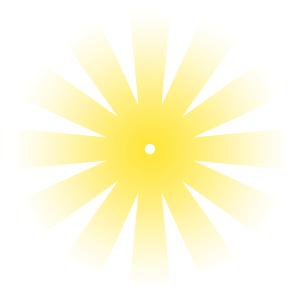
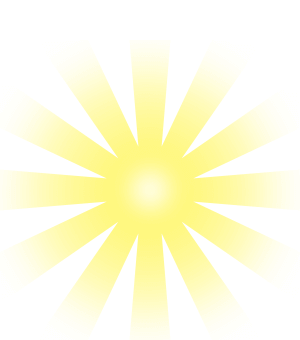
fix bugs:
1. 底部自适应
2.更换发光图片

diff --git a/NJS_PRS/src/js/cmdctool.js b/NJS_PRS/src/js/cmdctool.js
@@ -546,6 +546,6 @@ return /******/ (function(modules) { // webpackBootstrap
 /* 4 */
 /***/ function(module, exports) {
 
-		module.exports = "/*\n*\tMatterTools.Demo\n*/\n\n.cm-d-c {\ntop:0px;bottom:0px;left:0;right:0;margin:0 auto;\nposition: fixed;\nz-index:25;\nwidth: 1180px;\nheight: 100%;\n font-family: Helvetica, Arial, sans-serif;\n  display: -webkit-box;\n  display: -ms-flexbox;\n  display: flex;\n -webkit-box-align: center;\n      -ms-flex-align: center;\n          align-items: center;\n  -webkit-box-pack: center;\n      -ms-flex-pack: center;\n          justify-content: center;\n  -webkit-box-orient: vertical;\n  -webkit-box-direction: normal;\n      -ms-flex-direction: column;\n          flex-direction: column;\n  height: 100vh;\n}\n\n.cm-d-c canvas {\n  border-radius: 8px;\n  max-width: 100%;\n  max-height: 100%;\n}\n\n.cm-d-c.cm-d-c-inline canvas {\n  max-height: calc(100% - 50px);\n}\n\n@media screen and (min-width: 900px) and (min-height: 600px) {\n  .cm-d-c.cm-d-c-inline canvas {\n    max-height: calc(100% - 100px);\n  }\n}\n\n.matter-is-fullscreen .cm-d-c {\n  width: 100%;\n}\n\n.matter-is-fullscreen .dg.ac,\n.matter-is-fullscreen .ins-container {\n  display: none;\n}\n\n.start-btn {display: none;cursor:pointer;margin: auto;z-index: 9999; position: fixed;right:-15px;padding: 50px 0 0 0;text-align: center;} .cm-d-c-header-outer {\ndisplay:none;  position: fixed;\n  z-index: 100;\n  top: 0;\n  left: 0;\n  right: 0;\n  background: rgba(0, 0, 0, 0.2);\n  -webkit-box-align: center;\n      -ms-flex-align: center;\n          align-items: center;\n  -webkit-box-pack: center;\n      -ms-flex-pack: center;\n          justify-content: center;\n  -webkit-transition: background 400ms ease;\n  -o-transition: background 400ms ease;\n  transition: background 400ms ease;\n}\n\n.cm-d-c-header-outer:hover {\n  background: rgba(0, 0, 0, 0.7);\n}\n\n.cm-d-c-inline .cm-d-c-header-outer {\n  position: static;\n  background: transparent;\n  z-index: 0;\n  width: 100%;\n}\n\n.cm-d-c-header {\n  width: 100%;\n  padding: 7px 20px 8px 20px;\n  display: -webkit-box;\n  display: -ms-flexbox;\n  display: flex;\n  -webkit-box-align: center;\n      -ms-flex-align: center;\n          align-items: center;\n  -webkit-box-pack: center;\n      -ms-flex-pack: center;\n          justify-content: center;\n}\n\n.cm-d-c-inline .cm-d-c-header {\n  padding: 10px;\n}\n\nbody .ins-container,\nbody .dg .dg.main,\nbody .dg .dg.main.a {\n  padding-top: 52px;\n}\n\n@media screen and (min-width: 500px) {\n  .cm-d-c-inline .cm-d-c-header {\n    padding: 10px 30px 16px 30px;\n  }\n}\n\n@media screen and (min-width: 900px) and (min-height: 600px) {\n  .cm-d-c-inline .cm-d-c-header {\n    padding: 10px 30px 36px 30px;\n  }\n}\n\n.cm-d-c-header-inner {\n  display: -webkit-box;\n  display: -ms-flexbox;\n  display: flex;\n  -webkit-box-align: center;\n      -ms-flex-align: center;\n          align-items: center;\n  -webkit-box-pack: justify;\n      -ms-flex-pack: justify;\n          justify-content: space-between;\n  max-width: 960px;\n  width: 30%;\n}\n\n.cm-d-c-header h1 {\n  display: none;\n  margin: 0;\n  width: 18px;\n  overflow: hidden;\n}\n\n.cm-d-c-header h1 a {\n position: relative;right: 300px; color: #f2f2f5;\n  font-size: 15px;\n  font-weight: 400;\n  font-family: Helvetica, Arial, sans-serif;\n  display: block;\n  text-decoration: none;\n  padding: 8px 0 3px 0;\n  border-bottom: 2px solid transparent;\n  white-space: nowrap;\n  float: right;\n}\n\n@media screen and (min-width: 300px) {\n  .cm-d-c-header h1 {\n    display: inline;\n  }\n}\n\n@media screen and (min-width: 600px) {\n  .cm-d-c-header h1 {\n    width: auto;\n    overflow: visible;\n  }\n}\n\n.btn-home {\n  display: none;\n}\n\n.cm-d-c-title svg {\n  fill: #fff;\n  width: 16px;\n  height: 16px;\n  margin: 0px 0 -2px 4px;\n}\n\n.cm-d-c-close {left: 430px;position: relative; background: url('//act.cmcmcdn.com/upload/201710/fc2680a1c7df924e2a0e3259fecbc95b.png') no-repeat; width: 30px;height:30px;cursor: pointer;} .cm-d-c-header h1 a:hover {\n  border-bottom: 2px solid #298eff;\n}\n\n.cm-d-c-link {\n  font-family: Helvetica, Arial, sans-serif;\n  text-decoration: none;\n  line-height: 13px;\n  margin: 0 -10px 0 0;\n}\n\n.matter-logo {\n  height: 33px;\n  width: 52px;\n}\n\n.matter-logo #m-triangle {\n  -webkit-transform-origin: 14px 856px;\n      -ms-transform-origin: 14px 856px;\n          transform-origin: 14px 856px;\n  -webkit-transition: -webkit-transform 400ms ease;\n  transition: -webkit-transform 400ms ease;\n  -o-transition: transform 400ms ease;\n  transition: transform 400ms ease;\n  transition: transform 400ms ease, -webkit-transform 400ms ease;\n}\n\n.matter-logo:hover #m-triangle {\n  -webkit-transform: rotate(-30deg) translate(-98px, -25px);\n      -ms-transform: rotate(-30deg) translate(-98px, -25px);\n          transform: rotate(-30deg) translate(-98px, -25px);\n}\n\n.matter-logo #m-circle {\n  -webkit-transition: -webkit-transform 200ms ease;\n  transition: -webkit-transform 200ms ease;\n  -o-transition: transform 200ms ease;\n  transition: transform 200ms ease;\n  transition: transform 200ms ease, -webkit-transform 200ms ease;\n  -webkit-transition-delay: 300ms;\n       -o-transition-delay: 300ms;\n          transition-delay: 300ms;\n}\n\n.matter-logo #m-square {\n  -webkit-transition: -webkit-transform 150ms ease;\n  transition: -webkit-transform 150ms ease;\n  -o-transition: transform 150ms ease;\n  transition: transform 150ms ease;\n  transition: transform 150ms ease, -webkit-transform 150ms ease;\n  -webkit-transition-delay: 400ms;\n       -o-transition-delay: 400ms;\n          transition-delay: 400ms;\n}\n\n.matter-logo:hover #m-circle {\n  -webkit-transform: translate(18px, -33px);\n      -ms-transform: translate(18px, -33px);\n          transform: translate(18px, -33px);\n}\n\n.matter-logo:hover #m-square {\n  -webkit-transform: translate(47px, -2px);\n      -ms-transform: translate(47px, -2px);\n          transform: translate(47px, -2px);\n}\n\n.cm-d-c-toolbar {\n  -webkit-box-flex: 1;\n      -ms-flex-positive: 1;\n          flex-grow: 1;\n  display: -webkit-box;\n  display: -ms-flexbox;\n  display: flex;\n  -webkit-box-align: center;\n      -ms-flex-align: center;\n          align-items: center;\n  -webkit-box-pack: center;\n      -ms-flex-pack: center;\n          justify-content: center;\n}\n\n.matter-select {\n  background: transparent;\n  color: #fff;\n  font-size: 15px;\n  height: 30px;\n  width: 100%;\n  outline: none;\n  padding: 0 7px;\n  margin: 0;\n  border: 0;\n  border-radius: 0;\n  appearance: none;\n  -moz-appearance: none;\n  -webkit-appearance: none;\n}\n\n.prevent-zoom-ios .matter-select {\n  font-size: 16px;\n}\n\n.matter-select-wrapper {\n  width: 20%;\n  min-width: 100px;\n  max-width: 200px;\n  position: relative;\n  display: inline-block;\n  margin: 1px 6% 0 0;\n}\n\n.matter-select-wrapper:hover:after svg {\n  fill: #fff;\n}\n\n.matter-select-wrapper svg {\n  display: block;\n  pointer-events: none;\n  fill: #cecece;\n  width: 22px;\n  height: 22px;\n  position: absolute;\n  top: 4px;\n  right: 5px;\n}\n\n.prevent-zoom-ios .matter-select-wrapper:after {\n  top: 4px;\n}\n\n.matter-btn {\n  font-family: Helvetica, Arial, sans-serif;\n  border: 0;\n  background: rgba(0,0,0,0.1);\n  padding: 2px 0 0 0;\n  width: 40px;\n  height: 33px;\n  border-radius: 2px;\n  display: inline-block;\n  font-size: 16px;\n  line-height: 1;\n  color: #c2cad4;\n  text-decoration: none;\n  text-align: center;\n}\n\n.matter-btn svg {\n  fill: #fff;\n  width: 16px;\n  height: 16px;\n  margin: 2px 0 0 0;\n}\n\n.cm-d-c-inline .matter-btn {\n  background: #0f0f13;\n}\n\n.matter-btn:focus {\n  outline: 0;\n}\n\n.matter-btn:hover {\n  -webkit-transform: translate(0px, -1px);\n      -ms-transform: translate(0px, -1px);\n          transform: translate(0px, -1px);\n}\n\n.matter-btn:active {\n  -webkit-transform: translate(0px, 1px);\n      -ms-transform: translate(0px, 1px);\n          transform: translate(0px, 1px);\n}\n\n.matter-btn:hover {\n  background: #212a3a;\n}\n\n.matter-btn-reset:active svg {\n  fill: #76F09B;\n}\n\n.matter-btn-tools {\n  display: none;\n  font-size: 15px;\n  padding-right: 3px;\n}\n\n.matter-gui-active .matter-btn-tools svg {\n  fill: #F55F5F;\n}\n\n.matter-btn-inspect {\n  display: none;\n}\n\n.matter-inspect-active .matter-btn-inspect svg {\n  fill: #fff036;\n}\n\n.matter-btn-source {\n  display: none;\n  font-size: 12px;\n  text-align: center;\n  line-height: 31px;\n}\n\n.matter-btn-source:active {\n  color: #298eff;\n}\n\n.matter-btn-fullscreen {\n  font-size: 18px;\n}\n\n.matter-btn-source:active svg {\n  fill: #298eff;\n}\n\n.matter-is-fullscreen .matter-btn-tools,\n.matter-is-fullscreen .matter-btn-inspect {\n  display: none;\n}\n\n.matter-is-fullscreen .matter-btn-fullscreen svg {\n  fill: #76F09B;\n}\n\n.ins-container,\nbody .dg {\n  display: none;\n}\n\n@media screen and (min-width: 500px) {\n  .ins-container,\n  body .dg,\n  .matter-btn-tools,\n  .matter-btn-inspect,\n  .matter-btn-source {\n    display: block;\n  }\n}.switch {display: inline-block;margin: 0em 2em;position: relative;border-radius: 3.5em; -webkit-box-shadow: 0 0 0.5em rgba(255,255,255,0.2); -moz-box-shadow: 0 0 0.5em rgba(255,255,255,0.2);box-shadow: 0 0 0.5em rgba(255,255,255,0.2);} .switch label {cursor: pointer;width: 100%;height: 100%;margin: 0;padding: 0;display: block;position: absolute;top: 0;left: 0;z-index: 10;}.switch input {display: none;}.switch span {display: block; -webkit-transition: top 0.2s; -moz-transition: top 0.2s; -ms-transition: top 0.2s; -o-transition: top 0.2s;transition: top 0.2s;}.switch-border1 {border: 0.1em solid #000;border-radius: 3.5em; -webkit-box-shadow: 0 0.2em rgba(255, 255, 255, 0.2); -moz-box-shadow: 0 0.2em rgba(255, 255, 255, 0.2);box-shadow: 0 0.2em rgba(255, 255, 255, 0.2);}.switch-border2 {width: 6.6em;height: 12.6em;position: relative;border: 0.1em solid #323232;background-image: -webkit-gradient(linear, left top, right top, from(#2D2D2D), color-stop(0.5, #4B4B4B), to(#2D2D2D));background-image: -webkit-linear-gradient(left, #2D2D2D, #4B4B4B, #2D2D2D);background-image: -moz-linear-gradient(left, #2D2D2D, #4B4B4B, #2D2D2D);background-image: -ms-linear-gradient(left, #2D2D2D, #4B4B4B, #2D2D2D);background-image: -o-linear-gradient(left, #2D2D2D, #4B4B4B, #2D2D2D);background-image: linear-gradient(to right, #2D2D2D, #4B4B4B, #2D2D2D);border-radius: 3.4em;}.switch-border2:before,.switch-border2:after {content: '';display: block;width: 100%;height: 100%;position: absolute;top: 0;left: 0;z-index: 0;opacity: .3;border-radius: 3.4em;}.switch-border2:before {background: -webkit-gradient(linear, left top, left bottom, from(#000), to(rgba(0,0,0,0)));background: -webkit-linear-gradient(#000, rgba(0,0,0,0));background: -moz-linear-gradient(#000, rgba(0,0,0,0));background: -ms-linear-gradient(#000, rgba(0,0,0,0));background: -o-linear-gradient(#000, rgba(0,0,0,0));background: linear-gradient(#000, rgba(0,0,0,0));}.switch-border2:after {background: -webkit-gradient(linear, left top, left bottom, from(rgba(0,0,0,0)), to(#000));background: -webkit-linear-gradient(rgba(0,0,0,0), #000);background: -moz-linear-gradient(rgba(0,0,0,0), #000);background: -ms-linear-gradient(rgba(0,0,0,0), #000);background: -o-linear-gradient(rgba(0,0,0,0), #000);background: linear-gradient(rgba(0,0,0,0), #000);}.switch-top {width: 100%;height: 84%;position: absolute;top: 8%;left: 0;z-index: 1;background-image: -webkit-gradient(linear, left top, right top, from(#2D2D2D), color-stop(0.5, #4B4B4B), to(#2D2D2D));background-image: -webkit-linear-gradient(left, #2D2D2D, #4B4B4B, #2D2D2D);background-image: -moz-linear-gradient(left, #2D2D2D, #4B4B4B, #2D2D2D);background-image: -ms-linear-gradient(left, #2D2D2D, #4B4B4B, #2D2D2D);background-image: -o-linear-gradient(left, #2D2D2D, #4B4B4B, #2D2D2D);background-image: linear-gradient(to right, #2D2D2D, #4B4B4B, #2D2D2D);border-radius: 3.4em;}.switch-shadow {width: 100%;height: 100%;position: absolute;top: 0;left: 0;z-index: 2;border-radius: 3.4em; -webkit-box-shadow: 0 0 2em black inset; -moz-box-shadow: 0 0 2em black inset;box-shadow: 0 0 2em black inset;}.switch-handle-left,.switch-handle-right {content: '';display: block;width: 3.6em;height: 0;position: absolute;top: 6.6em;z-index: 2;border-bottom: 4.5em solid #111;border-left: 0.7em solid transparent;border-right: 0.7em solid transparent;border-radius: 0;}.switch-handle-left {left: 0.8em;}.switch-handle-right {right: 0.8em;}.switch-handle {width: 3.6em;height: 4.5em;position: absolute;top: 6.6em;left: 1.5em;z-index: 3;background: #333;background-image: -webkit-gradient(linear, left top, right top, from(#111), color-stop(0.4, #777), color-stop(0.5, #888), color-stop(0.6, #777), to(#111));background-image: -webkit-linear-gradient(left, #111, #777 40%, #888, #777 60%, #111);background-image: -moz-linear-gradient(left, #111, #777 40%, #888, #777 60%, #111);background-image: -ms-linear-gradient(left, #111, #777 40%, #888, #777 60%, #111);background-image: -o-linear-gradient(left, #111, #777 40%, #888, #777 60%, #111);background-image: linear-gradient(to right, #111, #777 40%, #888, #777 60%, #111);border-radius: 0;}.switch-handle-top {width: 5em;height: 5em;position: absolute;top: 8.5em;left: 0.8em;z-index: 4;background-color: #555;background-image: -webkit-gradient(linear, left top, right top, from(#5F5F5F), to(#878787));background-image: -webkit-linear-gradient(left, #5F5F5F, #878787);background-image: -moz-linear-gradient(left, #5F5F5F, #878787);background-image: -ms-linear-gradient(left, #5F5F5F, #878787);background-image: -o-linear-gradient(left, #5F5F5F, #878787);background-image: linear-gradient(to right, #5F5F5F, #878787);border-top: 0.2em solid #AEB2B3;border-radius: 2.5em;}.switch-handle-bottom {width: 3.6em;height: 3.6em;position: absolute;top: 4.7em;left: 1.5em;z-index: 3;background: #333;background-image: -webkit-gradient(linear, left top, right top, from(#111), color-stop(0.4, #777), color-stop(0.5, #888), color-stop(0.6, #777), to(#111));background-image: -webkit-linear-gradient(left, #111, #777 40%, #888, #777 60%, #111);background-image: -moz-linear-gradient(left, #111, #777 40%, #888, #777 60%, #111);background-image: -ms-linear-gradient(left, #111, #777 40%, #888, #777 60%, #111);background-image: -o-linear-gradient(left, #111, #777 40%, #888, #777 60%, #111);background-image: linear-gradient(to right, #111, #777 40%, #888, #777 60%, #111);border-top: 0.2em solid #141414;border-radius: 1.8em;}.switch-handle-base {width: 4.2em;height: 4.2em;position: absolute;top: 3.8em;left: 1.2em;z-index: 2;border-top: 0.2em solid rgba(255,255,255,0.35);border-radius: 2.1em;-webkit-box-shadow: 0 0 0.5em rgba(0,0,0,0.8) inset;-moz-box-shadow: 0 0 0.5em rgba(0,0,0,0.8) inset;box-shadow: 0 0 0.5em rgba(0,0,0,0.8) inset;}.switch-led {position: absolute;left: 2em;border-radius: 1.4em;}.switch-led-border {border: 0.2em solid black;border-radius: 1.3em;}.switch-led-light {border-radius: 1.1em; -webkit-box-shadow: 0 0 0.5em rgba(255,255,255,0.5) inset; -moz-box-shadow: 0 0 0.5em rgba(255,255,255,0.5) inset;box-shadow: 0 0 0.5em rgba(255,255,255,0.5) inset;}.switch-led-glow {width: 2em;height: 2em;position: relative;border-radius: 1em;}.switch-led-glow:before {content: '';display: block;width: 0.6em;height: 0.6em;position: absolute;top: 0.3em;left: 0.7em;background: rgba(255,255,255,0.2);border-radius: 0.3em; -webkit-box-shadow: 0 0 1em rgba(255,255,255,0.75); -moz-box-shadow: 0 0 1em rgba(255,255,255,0.75);box-shadow: 0 0 1em rgba(255,255,255,0.75);}.switch-led-glow:after {content: '';display: block;width: 0;height: 0;position: absolute;top: 0;left: 0;opacity: 0.2;filter: alpha(opacity=20);border: 1em solid #fff;border-color: transparent #fff transparent #fff;border-radius: 1em; -webkit-transform: rotate(45deg); -moz-transform: rotate(45deg); -ms-transform: rotate(45deg); -o-transform: rotate(45deg);transform: rotate(45deg);}.switch-led:after {display: block;width: 100%;position: absolute;left: 0;color: #666;font-family: arial, verdana, sans-serif;font-weight: bold;text-align: center;text-shadow: 0 0.1em rgba(0,0,0,0.7);}.switch-led-green:after {content: 'UP';top: -1.8em;}.switch-led-red:after {content: 'DOWN';bottom: -1.8em;}.switch-led-green {top: -5em;border-top: 0.1em solid rgba(0,161,75,0.5);border-bottom: 0.1em solid rgba(255,255,255,0.25);}.switch-led-green .switch-led-light {background: rgb(0,161,75);border: 0.1em solid rgb(0,104,56);}.switch-led-red {bottom: -5em;border-top: 0.1em solid rgba(237,28,36,0.2);border-bottom: 0.1em solid rgba(255,255,255,0.25); -webkit-box-shadow: 0 0 3em rgb(237,28,36); -moz-box-shadow: 0 0 3em rgb(237,28,36);box-shadow: 0 0 3em rgb(237,28,36);}.switch-led-red .switch-led-light {background: rgb(237,28,36);border: 0.1em solid rgb(161,30,45);}.switch-led-red .switch-led-glow {background: #fff;background: rgba(255, 255, 255, 0.3);filter: alpha(opacity=30);}.switch input:checked~.switch-handle-left, .switch input:checked~.switch-handle-right {top: 1.5em;border-bottom: 0; -top: 4.5em solid #111;}.switch input:checked~.switch-handle {top: 1.5em;}.switch input:checked~.switch-handle-top  {top: -1em;border-top: 0;border-bottom: 0.2em solid #AEB2B3;}.switch input:checked~.switch-handle-bottom {top: 4.2em;border-top: 0;border-bottom: 0.2em solid #141414;}.switch input:checked~.switch-handle-base {top: 4.5em;border-top: 0;border-bottom: 0.2em solid rgba(255,255,255,0.35);}.switch input:checked~.switch-led-green { -webkit-box-shadow: 0 0 3em rgb(0,161,75); -moz-box-shadow: 0 0 3em rgb(0,161,75);box-shadow: 0 0 3em rgb(0,161,75);}.switch input:checked~.switch-led-green .switch-led-glow {background: #fff;background: rgba(255, 255, 255, 0.4);filter: alpha(opacity=40);}.switch input:checked~.switch-led-red { -webkit-box-shadow: none; -moz-box-shadow: none;box-shadow: none;}.switch input:checked~.switch-led-red .switch-led-glow {background: rgba(255, 255, 255, 0);filter: alpha(opacity=0);}"}])
+		module.exports = "/*\n*\tMatterTools.Demo\n*/\n\n.cm-d-c {\ntop:0px;bottom:0px;left:0;right:0;margin:0 auto;\nposition: fixed;\nz-index:25;\nwidth: 1180px;\nheight: 100%;\n font-family: Helvetica, Arial, sans-serif;\n  display: -webkit-box;\n  display: -ms-flexbox;\n  display: flex;\n -webkit-box-align: center;\n      -ms-flex-align: center;\n          align-items: center;\n  -webkit-box-pack: center;\n      -ms-flex-pack: center;\n          justify-content: center;\n  -webkit-box-orient: vertical;\n  -webkit-box-direction: normal;\n      -ms-flex-direction: column;\n          flex-direction: column;\n  height: 100vh;cursor:url('https://www.duba.com/static/v2/images/point.cur'),auto\n}\n\n.cm-d-c canvas {\n  border-radius: 8px;\n  max-width: 100%;\n  max-height: 100%;\n}\n\n.cm-d-c.cm-d-c-inline canvas {\n  max-height: calc(100% - 50px);\n}\n\n@media screen and (min-width: 900px) and (min-height: 600px) {\n  .cm-d-c.cm-d-c-inline canvas {\n    max-height: calc(100% - 100px);\n  }\n}\n\n.matter-is-fullscreen .cm-d-c {\n  width: 100%;\n}\n\n.matter-is-fullscreen .dg.ac,\n.matter-is-fullscreen .ins-container {\n  display: none;\n}\n\n.start-btn {display: none;cursor:pointer;margin: auto;z-index: 9999; position: fixed;right:-15px;padding: 50px 0 0 0;text-align: center;} .cm-d-c-header-outer {\ndisplay:none;  position: fixed;\n  z-index: 100;\n  top: 0;\n  left: 0;\n  right: 0;\n  background: rgba(0, 0, 0, 0.2);\n  -webkit-box-align: center;\n      -ms-flex-align: center;\n          align-items: center;\n  -webkit-box-pack: center;\n      -ms-flex-pack: center;\n          justify-content: center;\n  -webkit-transition: background 400ms ease;\n  -o-transition: background 400ms ease;\n  transition: background 400ms ease;\n}\n\n.cm-d-c-header-outer:hover {\n  background: rgba(0, 0, 0, 0.7);\n}\n\n.cm-d-c-inline .cm-d-c-header-outer {\n  position: static;\n  background: transparent;\n  z-index: 0;\n  width: 100%;\n}\n\n.cm-d-c-header {\n  width: 100%;\n  padding: 7px 20px 8px 20px;\n  display: -webkit-box;\n  display: -ms-flexbox;\n  display: flex;\n  -webkit-box-align: center;\n      -ms-flex-align: center;\n          align-items: center;\n  -webkit-box-pack: center;\n      -ms-flex-pack: center;\n          justify-content: center;\n}\n\n.cm-d-c-inline .cm-d-c-header {\n  padding: 10px;\n}\n\nbody .ins-container,\nbody .dg .dg.main,\nbody .dg .dg.main.a {\n  padding-top: 52px;\n}\n\n@media screen and (min-width: 500px) {\n  .cm-d-c-inline .cm-d-c-header {\n    padding: 10px 30px 16px 30px;\n  }\n}\n\n@media screen and (min-width: 900px) and (min-height: 600px) {\n  .cm-d-c-inline .cm-d-c-header {\n    padding: 10px 30px 36px 30px;\n  }\n}\n\n.cm-d-c-header-inner {\n  display: -webkit-box;\n  display: -ms-flexbox;\n  display: flex;\n  -webkit-box-align: center;\n      -ms-flex-align: center;\n          align-items: center;\n  -webkit-box-pack: justify;\n      -ms-flex-pack: justify;\n          justify-content: space-between;\n  max-width: 960px;\n  width: 30%;\n}\n\n.cm-d-c-header h1 {\n  display: none;\n  margin: 0;\n  width: 18px;\n  overflow: hidden;\n}\n\n.cm-d-c-header h1 a {\n position: relative;right: 300px; color: #f2f2f5;\n  font-size: 15px;\n  font-weight: 400;\n  font-family: Helvetica, Arial, sans-serif;\n  display: block;\n  text-decoration: none;\n  padding: 8px 0 3px 0;\n  border-bottom: 2px solid transparent;\n  white-space: nowrap;\n  float: right;\n}\n\n@media screen and (min-width: 300px) {\n  .cm-d-c-header h1 {\n    display: inline;\n  }\n}\n\n@media screen and (min-width: 600px) {\n  .cm-d-c-header h1 {\n    width: auto;\n    overflow: visible;\n  }\n}\n\n.btn-home {\n  display: none;\n}\n\n.cm-d-c-title svg {\n  fill: #fff;\n  width: 16px;\n  height: 16px;\n  margin: 0px 0 -2px 4px;\n}\n\n.cm-d-c-close {left: 430px;position: relative; background: url('//act.cmcmcdn.com/upload/201710/fc2680a1c7df924e2a0e3259fecbc95b.png') no-repeat; width: 30px;height:30px;cursor: pointer;} .cm-d-c-header h1 a:hover {\n  border-bottom: 2px solid #298eff;\n}\n\n.cm-d-c-link {\n  font-family: Helvetica, Arial, sans-serif;\n  text-decoration: none;\n  line-height: 13px;\n  margin: 0 -10px 0 0;\n}\n\n.matter-logo {\n  height: 33px;\n  width: 52px;\n}\n\n.matter-logo #m-triangle {\n  -webkit-transform-origin: 14px 856px;\n      -ms-transform-origin: 14px 856px;\n          transform-origin: 14px 856px;\n  -webkit-transition: -webkit-transform 400ms ease;\n  transition: -webkit-transform 400ms ease;\n  -o-transition: transform 400ms ease;\n  transition: transform 400ms ease;\n  transition: transform 400ms ease, -webkit-transform 400ms ease;\n}\n\n.matter-logo:hover #m-triangle {\n  -webkit-transform: rotate(-30deg) translate(-98px, -25px);\n      -ms-transform: rotate(-30deg) translate(-98px, -25px);\n          transform: rotate(-30deg) translate(-98px, -25px);\n}\n\n.matter-logo #m-circle {\n  -webkit-transition: -webkit-transform 200ms ease;\n  transition: -webkit-transform 200ms ease;\n  -o-transition: transform 200ms ease;\n  transition: transform 200ms ease;\n  transition: transform 200ms ease, -webkit-transform 200ms ease;\n  -webkit-transition-delay: 300ms;\n       -o-transition-delay: 300ms;\n          transition-delay: 300ms;\n}\n\n.matter-logo #m-square {\n  -webkit-transition: -webkit-transform 150ms ease;\n  transition: -webkit-transform 150ms ease;\n  -o-transition: transform 150ms ease;\n  transition: transform 150ms ease;\n  transition: transform 150ms ease, -webkit-transform 150ms ease;\n  -webkit-transition-delay: 400ms;\n       -o-transition-delay: 400ms;\n          transition-delay: 400ms;\n}\n\n.matter-logo:hover #m-circle {\n  -webkit-transform: translate(18px, -33px);\n      -ms-transform: translate(18px, -33px);\n          transform: translate(18px, -33px);\n}\n\n.matter-logo:hover #m-square {\n  -webkit-transform: translate(47px, -2px);\n      -ms-transform: translate(47px, -2px);\n          transform: translate(47px, -2px);\n}\n\n.cm-d-c-toolbar {\n  -webkit-box-flex: 1;\n      -ms-flex-positive: 1;\n          flex-grow: 1;\n  display: -webkit-box;\n  display: -ms-flexbox;\n  display: flex;\n  -webkit-box-align: center;\n      -ms-flex-align: center;\n          align-items: center;\n  -webkit-box-pack: center;\n      -ms-flex-pack: center;\n          justify-content: center;\n}\n\n.matter-select {\n  background: transparent;\n  color: #fff;\n  font-size: 15px;\n  height: 30px;\n  width: 100%;\n  outline: none;\n  padding: 0 7px;\n  margin: 0;\n  border: 0;\n  border-radius: 0;\n  appearance: none;\n  -moz-appearance: none;\n  -webkit-appearance: none;\n}\n\n.prevent-zoom-ios .matter-select {\n  font-size: 16px;\n}\n\n.matter-select-wrapper {\n  width: 20%;\n  min-width: 100px;\n  max-width: 200px;\n  position: relative;\n  display: inline-block;\n  margin: 1px 6% 0 0;\n}\n\n.matter-select-wrapper:hover:after svg {\n  fill: #fff;\n}\n\n.matter-select-wrapper svg {\n  display: block;\n  pointer-events: none;\n  fill: #cecece;\n  width: 22px;\n  height: 22px;\n  position: absolute;\n  top: 4px;\n  right: 5px;\n}\n\n.prevent-zoom-ios .matter-select-wrapper:after {\n  top: 4px;\n}\n\n.matter-btn {\n  font-family: Helvetica, Arial, sans-serif;\n  border: 0;\n  background: rgba(0,0,0,0.1);\n  padding: 2px 0 0 0;\n  width: 40px;\n  height: 33px;\n  border-radius: 2px;\n  display: inline-block;\n  font-size: 16px;\n  line-height: 1;\n  color: #c2cad4;\n  text-decoration: none;\n  text-align: center;\n}\n\n.matter-btn svg {\n  fill: #fff;\n  width: 16px;\n  height: 16px;\n  margin: 2px 0 0 0;\n}\n\n.cm-d-c-inline .matter-btn {\n  background: #0f0f13;\n}\n\n.matter-btn:focus {\n  outline: 0;\n}\n\n.matter-btn:hover {\n  -webkit-transform: translate(0px, -1px);\n      -ms-transform: translate(0px, -1px);\n          transform: translate(0px, -1px);\n}\n\n.matter-btn:active {\n  -webkit-transform: translate(0px, 1px);\n      -ms-transform: translate(0px, 1px);\n          transform: translate(0px, 1px);\n}\n\n.matter-btn:hover {\n  background: #212a3a;\n}\n\n.matter-btn-reset:active svg {\n  fill: #76F09B;\n}\n\n.matter-btn-tools {\n  display: none;\n  font-size: 15px;\n  padding-right: 3px;\n}\n\n.matter-gui-active .matter-btn-tools svg {\n  fill: #F55F5F;\n}\n\n.matter-btn-inspect {\n  display: none;\n}\n\n.matter-inspect-active .matter-btn-inspect svg {\n  fill: #fff036;\n}\n\n.matter-btn-source {\n  display: none;\n  font-size: 12px;\n  text-align: center;\n  line-height: 31px;\n}\n\n.matter-btn-source:active {\n  color: #298eff;\n}\n\n.matter-btn-fullscreen {\n  font-size: 18px;\n}\n\n.matter-btn-source:active svg {\n  fill: #298eff;\n}\n\n.matter-is-fullscreen .matter-btn-tools,\n.matter-is-fullscreen .matter-btn-inspect {\n  display: none;\n}\n\n.matter-is-fullscreen .matter-btn-fullscreen svg {\n  fill: #76F09B;\n}\n\n.ins-container,\nbody .dg {\n  display: none;\n}\n\n@media screen and (min-width: 500px) {\n  .ins-container,\n  body .dg,\n  .matter-btn-tools,\n  .matter-btn-inspect,\n  .matter-btn-source {\n    display: block;\n  }\n}.switch {display: inline-block;margin: 0em 2em;position: relative;border-radius: 3.5em; -webkit-box-shadow: 0 0 0.5em rgba(255,255,255,0.2); -moz-box-shadow: 0 0 0.5em rgba(255,255,255,0.2);box-shadow: 0 0 0.5em rgba(255,255,255,0.2);} .switch label {cursor: pointer;width: 100%;height: 100%;margin: 0;padding: 0;display: block;position: absolute;top: 0;left: 0;z-index: 10;}.switch input {display: none;}.switch span {display: block; -webkit-transition: top 0.2s; -moz-transition: top 0.2s; -ms-transition: top 0.2s; -o-transition: top 0.2s;transition: top 0.2s;}.switch-border1 {border: 0.1em solid #000;border-radius: 3.5em; -webkit-box-shadow: 0 0.2em rgba(255, 255, 255, 0.2); -moz-box-shadow: 0 0.2em rgba(255, 255, 255, 0.2);box-shadow: 0 0.2em rgba(255, 255, 255, 0.2);}.switch-border2 {width: 6.6em;height: 12.6em;position: relative;border: 0.1em solid #323232;background-image: -webkit-gradient(linear, left top, right top, from(#2D2D2D), color-stop(0.5, #4B4B4B), to(#2D2D2D));background-image: -webkit-linear-gradient(left, #2D2D2D, #4B4B4B, #2D2D2D);background-image: -moz-linear-gradient(left, #2D2D2D, #4B4B4B, #2D2D2D);background-image: -ms-linear-gradient(left, #2D2D2D, #4B4B4B, #2D2D2D);background-image: -o-linear-gradient(left, #2D2D2D, #4B4B4B, #2D2D2D);background-image: linear-gradient(to right, #2D2D2D, #4B4B4B, #2D2D2D);border-radius: 3.4em;}.switch-border2:before,.switch-border2:after {content: '';display: block;width: 100%;height: 100%;position: absolute;top: 0;left: 0;z-index: 0;opacity: .3;border-radius: 3.4em;}.switch-border2:before {background: -webkit-gradient(linear, left top, left bottom, from(#000), to(rgba(0,0,0,0)));background: -webkit-linear-gradient(#000, rgba(0,0,0,0));background: -moz-linear-gradient(#000, rgba(0,0,0,0));background: -ms-linear-gradient(#000, rgba(0,0,0,0));background: -o-linear-gradient(#000, rgba(0,0,0,0));background: linear-gradient(#000, rgba(0,0,0,0));}.switch-border2:after {background: -webkit-gradient(linear, left top, left bottom, from(rgba(0,0,0,0)), to(#000));background: -webkit-linear-gradient(rgba(0,0,0,0), #000);background: -moz-linear-gradient(rgba(0,0,0,0), #000);background: -ms-linear-gradient(rgba(0,0,0,0), #000);background: -o-linear-gradient(rgba(0,0,0,0), #000);background: linear-gradient(rgba(0,0,0,0), #000);}.switch-top {width: 100%;height: 84%;position: absolute;top: 8%;left: 0;z-index: 1;background-image: -webkit-gradient(linear, left top, right top, from(#2D2D2D), color-stop(0.5, #4B4B4B), to(#2D2D2D));background-image: -webkit-linear-gradient(left, #2D2D2D, #4B4B4B, #2D2D2D);background-image: -moz-linear-gradient(left, #2D2D2D, #4B4B4B, #2D2D2D);background-image: -ms-linear-gradient(left, #2D2D2D, #4B4B4B, #2D2D2D);background-image: -o-linear-gradient(left, #2D2D2D, #4B4B4B, #2D2D2D);background-image: linear-gradient(to right, #2D2D2D, #4B4B4B, #2D2D2D);border-radius: 3.4em;}.switch-shadow {width: 100%;height: 100%;position: absolute;top: 0;left: 0;z-index: 2;border-radius: 3.4em; -webkit-box-shadow: 0 0 2em black inset; -moz-box-shadow: 0 0 2em black inset;box-shadow: 0 0 2em black inset;}.switch-handle-left,.switch-handle-right {content: '';display: block;width: 3.6em;height: 0;position: absolute;top: 6.6em;z-index: 2;border-bottom: 4.5em solid #111;border-left: 0.7em solid transparent;border-right: 0.7em solid transparent;border-radius: 0;}.switch-handle-left {left: 0.8em;}.switch-handle-right {right: 0.8em;}.switch-handle {width: 3.6em;height: 4.5em;position: absolute;top: 6.6em;left: 1.5em;z-index: 3;background: #333;background-image: -webkit-gradient(linear, left top, right top, from(#111), color-stop(0.4, #777), color-stop(0.5, #888), color-stop(0.6, #777), to(#111));background-image: -webkit-linear-gradient(left, #111, #777 40%, #888, #777 60%, #111);background-image: -moz-linear-gradient(left, #111, #777 40%, #888, #777 60%, #111);background-image: -ms-linear-gradient(left, #111, #777 40%, #888, #777 60%, #111);background-image: -o-linear-gradient(left, #111, #777 40%, #888, #777 60%, #111);background-image: linear-gradient(to right, #111, #777 40%, #888, #777 60%, #111);border-radius: 0;}.switch-handle-top {width: 5em;height: 5em;position: absolute;top: 8.5em;left: 0.8em;z-index: 4;background-color: #555;background-image: -webkit-gradient(linear, left top, right top, from(#5F5F5F), to(#878787));background-image: -webkit-linear-gradient(left, #5F5F5F, #878787);background-image: -moz-linear-gradient(left, #5F5F5F, #878787);background-image: -ms-linear-gradient(left, #5F5F5F, #878787);background-image: -o-linear-gradient(left, #5F5F5F, #878787);background-image: linear-gradient(to right, #5F5F5F, #878787);border-top: 0.2em solid #AEB2B3;border-radius: 2.5em;}.switch-handle-bottom {width: 3.6em;height: 3.6em;position: absolute;top: 4.7em;left: 1.5em;z-index: 3;background: #333;background-image: -webkit-gradient(linear, left top, right top, from(#111), color-stop(0.4, #777), color-stop(0.5, #888), color-stop(0.6, #777), to(#111));background-image: -webkit-linear-gradient(left, #111, #777 40%, #888, #777 60%, #111);background-image: -moz-linear-gradient(left, #111, #777 40%, #888, #777 60%, #111);background-image: -ms-linear-gradient(left, #111, #777 40%, #888, #777 60%, #111);background-image: -o-linear-gradient(left, #111, #777 40%, #888, #777 60%, #111);background-image: linear-gradient(to right, #111, #777 40%, #888, #777 60%, #111);border-top: 0.2em solid #141414;border-radius: 1.8em;}.switch-handle-base {width: 4.2em;height: 4.2em;position: absolute;top: 3.8em;left: 1.2em;z-index: 2;border-top: 0.2em solid rgba(255,255,255,0.35);border-radius: 2.1em;-webkit-box-shadow: 0 0 0.5em rgba(0,0,0,0.8) inset;-moz-box-shadow: 0 0 0.5em rgba(0,0,0,0.8) inset;box-shadow: 0 0 0.5em rgba(0,0,0,0.8) inset;}.switch-led {position: absolute;left: 2em;border-radius: 1.4em;}.switch-led-border {border: 0.2em solid black;border-radius: 1.3em;}.switch-led-light {border-radius: 1.1em; -webkit-box-shadow: 0 0 0.5em rgba(255,255,255,0.5) inset; -moz-box-shadow: 0 0 0.5em rgba(255,255,255,0.5) inset;box-shadow: 0 0 0.5em rgba(255,255,255,0.5) inset;}.switch-led-glow {width: 2em;height: 2em;position: relative;border-radius: 1em;}.switch-led-glow:before {content: '';display: block;width: 0.6em;height: 0.6em;position: absolute;top: 0.3em;left: 0.7em;background: rgba(255,255,255,0.2);border-radius: 0.3em; -webkit-box-shadow: 0 0 1em rgba(255,255,255,0.75); -moz-box-shadow: 0 0 1em rgba(255,255,255,0.75);box-shadow: 0 0 1em rgba(255,255,255,0.75);}.switch-led-glow:after {content: '';display: block;width: 0;height: 0;position: absolute;top: 0;left: 0;opacity: 0.2;filter: alpha(opacity=20);border: 1em solid #fff;border-color: transparent #fff transparent #fff;border-radius: 1em; -webkit-transform: rotate(45deg); -moz-transform: rotate(45deg); -ms-transform: rotate(45deg); -o-transform: rotate(45deg);transform: rotate(45deg);}.switch-led:after {display: block;width: 100%;position: absolute;left: 0;color: #666;font-family: arial, verdana, sans-serif;font-weight: bold;text-align: center;text-shadow: 0 0.1em rgba(0,0,0,0.7);}.switch-led-green:after {content: 'UP';top: -1.8em;}.switch-led-red:after {content: 'DOWN';bottom: -1.8em;}.switch-led-green {top: -5em;border-top: 0.1em solid rgba(0,161,75,0.5);border-bottom: 0.1em solid rgba(255,255,255,0.25);}.switch-led-green .switch-led-light {background: rgb(0,161,75);border: 0.1em solid rgb(0,104,56);}.switch-led-red {bottom: -5em;border-top: 0.1em solid rgba(237,28,36,0.2);border-bottom: 0.1em solid rgba(255,255,255,0.25); -webkit-box-shadow: 0 0 3em rgb(237,28,36); -moz-box-shadow: 0 0 3em rgb(237,28,36);box-shadow: 0 0 3em rgb(237,28,36);}.switch-led-red .switch-led-light {background: rgb(237,28,36);border: 0.1em solid rgb(161,30,45);}.switch-led-red .switch-led-glow {background: #fff;background: rgba(255, 255, 255, 0.3);filter: alpha(opacity=30);}.switch input:checked~.switch-handle-left, .switch input:checked~.switch-handle-right {top: 1.5em;border-bottom: 0; -top: 4.5em solid #111;}.switch input:checked~.switch-handle {top: 1.5em;}.switch input:checked~.switch-handle-top  {top: -1em;border-top: 0;border-bottom: 0.2em solid #AEB2B3;}.switch input:checked~.switch-handle-bottom {top: 4.2em;border-top: 0;border-bottom: 0.2em solid #141414;}.switch input:checked~.switch-handle-base {top: 4.5em;border-top: 0;border-bottom: 0.2em solid rgba(255,255,255,0.35);}.switch input:checked~.switch-led-green { -webkit-box-shadow: 0 0 3em rgb(0,161,75); -moz-box-shadow: 0 0 3em rgb(0,161,75);box-shadow: 0 0 3em rgb(0,161,75);}.switch input:checked~.switch-led-green .switch-led-glow {background: #fff;background: rgba(255, 255, 255, 0.4);filter: alpha(opacity=40);}.switch input:checked~.switch-led-red { -webkit-box-shadow: none; -moz-box-shadow: none;box-shadow: none;}.switch input:checked~.switch-led-red .switch-led-glow {background: rgba(255, 255, 255, 0);filter: alpha(opacity=0);}"}])
 });
 ;

diff --git a/NJS_PRS/src/js/cmdci.js b/NJS_PRS/src/js/cmdci.js
@@ -1,10 +1,11 @@
 
 (function() {
 	var CMDC = {
-		sourceLinkRoot: '//localhost:8000/NJS_PRS/src/',
-		// sourceLinkRoot: '//10.20.240.179:8000/NJS_PRS/src/',
+		// sourceLinkRoot: '//localhost:8000/NJS_PRS/src/',
+		sourceLinkRoot: '//10.20.240.179:8000/NJS_PRS/src/',
 		//sourceLinkRoot: '//10.20.240.179:8000/NJS_PRS/output/',
 		// sourceLinkRoot: '//act.cmcmcdn.com/dollcatching/NJS_PRS/output/',
+		tmallLink: '',
 		dc: {},
 		playAgain : false,
 		timeout : 1000,
@@ -27,23 +28,18 @@
 				mainScript = document.createElement("script"),
 				alertScript = document.createElement("script"),
 				alertCss = document.createElement("link"),
-				tipScript = document.createElement("script"),
 				tipCss = document.createElement("link"),
 				sourceLinkRoot = CMDC.sourceLinkRoot;
 
 			pfScript.src = sourceLinkRoot + "js/polyfill.js";
 			mScript.src = sourceLinkRoot + "js/matter.js";
 			mgScript.src = sourceLinkRoot + "js/matter-tools.gui.js";
-			mdScript.src = sourceLinkRoot + "js/matter-tools.demo.js";
+			mdScript.src = sourceLinkRoot + "js/cmdctool.js";
 			mainScript.src = sourceLinkRoot + "js/cmdcg.js";
 			alertScript.src = sourceLinkRoot + "js/alert.js";
-			tipScript.src = sourceLinkRoot + "js/tipso.min.js";
 			alertCss.href = sourceLinkRoot + "css/alert.css";
-			tipCss.href = sourceLinkRoot + "css/tipso.min.css";
 			alertCss.rel = 'stylesheet';
 			alertCss.type = 'text/css';
-			tipCss.rel = 'stylesheet';
-			tipCss.type = 'text/css';
 
 			oHead.appendChild(alertCss);
 			oHead.appendChild(tipCss);
@@ -54,7 +50,6 @@
 				oHead.appendChild(mdScript);
 				oHead.appendChild(mainScript);
 				oHead.appendChild(alertScript);
-				oHead.appendChild(tipScript);
 			}, 500)
 		},
 		removejscssfile : function(filename, filetype){
@@ -157,7 +152,7 @@
 		play: function(){
 			var obj = {
 				tools: {
-					gui: true
+					gui: false
 				},
 				startExample: 'cmdcg',
 				examples: [
@@ -201,7 +196,7 @@
 				createDom: function(resource){
 					var cssStr = '@-webkit-keyframes move_upper {from {opacity: 0;}to {opacity: 1; -webkit-transform: translateY(-60px);transform: translateY(-60px);}} @keyframes move_upper {from {opacity: 0;}to {opacity: 1; -webkit-transform: translateY(-60px);transform: translateY(-60px); }}' +
 						'.move_upper { -webkit-animation-name: move_upper;animation-name: move_upper; -webkit-animation-duration: .7s;animation-duration: .7s; -webkit-animation-iteration-count: 1;animation-iteration-count: 1; -webkit-animation-fill-mode: forwards;animation-fill-mode: forwards;}' +
-						'.cm-dc-bottom {max-width: 1220px;position:fixed;margin: auto;left: 0;right: 0;bottom: -10px;min-width:1180px;z-index:28;height:240px;line-height:35px;background-repeat: no-repeat;background-position: center top;display:none;} ' +
+						'.cm-dc-bottom {min-width:1180px;position:fixed;margin: auto;left: 0;right: 0;bottom: -10px;z-index:28;height:240px;background-repeat: no-repeat;background-position: center top;display:none;} ' +
 						'.cm-dc-left {z-index:99;position:fixed;bottom:0;right: 50%;top:0;margin-right: 700px;width: 18%;height: 100%;background: #ec2040;}' +
 						'.cm-dc-right {z-index:2;position:fixed;bottom:0;left: 50%;top:0;margin-left: 700px;width: 18%;height: 100%;background: #ec2040;}' +
 						'.cm-dc-middle {z-index:21;position:fixed;margin:auto;top: 0;left: 0;right: 0;bottom: 0;min-width:1180px;background-repeat: no-repeat;background-position: center top;display: none}' +
@@ -209,8 +204,8 @@
 						'.cm-dc-close {width: 80px;height: 80px;cursor: pointer;top: 20px; margin: auto;z-index:23;position: fixed; right:28px;background-repeat: no-repeat;} .cm-dc-close:hover {background-position: -80px} .cm-dc-close:active {background-position: -160px}' +
 						'.cm-dc-11logo-left {margin-left: 140px;display: inline-block;width: 200px; height: 100%;background-image: url(../images/11logo.png);}' +
 						'.cm-dc-11logo-right {display: inline-block;width: 200px; height: 100%;background-image: url(../images/11logo.png);}' +
-						'.cm-dc-rocker {float:left;bottom:15px;position: relative;left: 100px;width: 160px;height: 270px;background-repeat: no-repeat;}' +
-						'.cm-dc-start-btn {top:105px;cursor:pointer;position: relative;left:400px;width:408px;height: 130px;background-repeat: no-repeat;} .cm-dc-start-btn:hover {background-position: -406px} .cm-dc-start-btn:active {background-position: -810px} ';
+						'.cm-dc-rocker {position:fixed;margin:auto;left:0;right:830px;bottom:-20px;z-index:30;width:160px;height: 270px;background-repeat: no-repeat;}' +
+						'.cm-dc-start-btn {cursor:pointer;position:fixed;margin:auto;left:0;right:0;bottom: 0px;z-index:30;width:408px;height: 130px;background-repeat: no-repeat;} .cm-dc-start-btn:hover {background-position: -406px} .cm-dc-start-btn:active {background-position: -810px} ';
 					var cssStyle = {};
 					cssStyle = document.createElement('style');
 					cssStyle.type = 'text/css';
@@ -257,14 +252,15 @@
 
 					left.appendChild(leftlogo);
 					right.appendChild(rightlogo);
-					bot.appendChild(rocker);
-					bot.appendChild(start);
+					cmdc.appendChild(rocker);
 					cmdc.appendChild(bot);
 					cmdc.appendChild(left);
 					cmdc.appendChild(right);
 					cmdc.appendChild(middle);
 					cmdc.appendChild(close);
 					cmdc.appendChild(bottombak);
+					cmdc.appendChild(bottombak);
+					cmdc.appendChild(start);
 					document.body.appendChild(cmdc);
 				},
 				show: function(){
@@ -306,8 +302,8 @@
 	setTimeout(function(){
 
 		// Catcher.report({node:1031100, snode:1163, w:"dcgame", cid:""})
-
 		CMDC.play();
+
 	}, CMDC.timeout);
 
 })();

diff --git a/NJS_PRS/src/js/cmdcg.js b/NJS_PRS/src/js/cmdcg.js
@@ -45,8 +45,8 @@ CMDCG.do = function() {
 			render: {
 				visible: false,
 				sprite: {
-					// xScale: scaleVal,
-					// yScale: scaleVal,
+					xScale: 1.3,
+					yScale: 1.3,
 					texture: sourceLinkRoot + 'img/flash.png'
 				}
 			},
@@ -259,8 +259,7 @@ CMDCG.do = function() {
 					mass: massVal,
 					angle: -Math.PI * Common.random(0, 1),
 				});
-			}
-			else if(Common.random() > 0.3 && Common.random() < 0.5){
+			} else if(Common.random() > 0.3 && Common.random() < 0.6){
 				return Bodies.rectangle(x+Common.random()*25, y+Common.random(), 36, 46, {
 					render: {
 						sprite: {
@@ -275,22 +274,7 @@ CMDCG.do = function() {
 					mass: massVal,
 					angle: -Math.PI * Common.random(0, 1)
 				});
-			} else if(Common.random() > 0.5 && Common.random() < 0.55){
-				return Bodies.rectangle(x+Common.random()*25, y+Common.random(), 30, 40, {
-					render: {
-						sprite: {
-							xScale: scaleoffest,
-							yScale: scaleoffest,
-							texture: sourceLinkRoot + 'img/rgift.png'
-						}
-					},
-					chamfer: { radius: radiusVal },
-					// friction: 0.7,
-					timeScale: timeScaleVal,
-					mass: massVal,
-					angle: -Math.PI * Common.random(0, 1)
-				});
-			} else if(Common.random() > 0.55 && Common.random() < 0.6){
+			} else if(Common.random() > 0.6 && Common.random() < 0.65){
 				return Bodies.rectangle(x+Common.random()*25, y+Common.random()*15, 30, 40, {
 					render: {
 						sprite: {
@@ -350,7 +334,7 @@ CMDCG.do = function() {
 					mass: massVal,
 					angle: -Math.PI * Common.random(0, 1)
 				});
-			} else if(Common.random() > 0.8 && Common.random() < 0.9){
+			} else if(Common.random() > 0.8 && Common.random() < 0.85){
 				return Bodies.rectangle(x+Common.random()*25, y+Common.random()*3, 30, 44, {
 					render: {
 						sprite: {
@@ -365,7 +349,7 @@ CMDCG.do = function() {
 					mass: massVal,
 					angle: -Math.PI * Common.random(0, 1)
 				});
-			} else if(Common.random() > 0.9 && Common.random() < 0.95){
+			} else if(Common.random() > 0.85 && Common.random() < 0.9){
 				return Bodies.rectangle(x+Common.random()*25, y+Common.random()*44, 30, 44, {
 					render: {
 						sprite: {
@@ -386,7 +370,7 @@ CMDCG.do = function() {
 						sprite: {
 							xScale: scaleoffest,
 							yScale: scaleoffest,
-							texture: sourceLinkRoot + '/img/gbag.png'
+							texture: sourceLinkRoot + '/img/rred.png'
 						}
 					},
 					chamfer: { radius: radiusVal },
@@ -463,9 +447,6 @@ CMDCG.do = function() {
 	//设置运行范围 围墙
 	$('#cm-d-c').css('min-width', 1180)
 	World.add(world, [
-		// bottomWall,
-		// leftWall,
-		// rightWall
 		//3-厚度 4-高度
 		// Bodies.rectangle(400, 50, 800.5 + 2 * offset, 10.5, options), //上
 		Bodies.rectangle(400, 470 + offset, 800.5 + 2 * offset, thick, options), //下
@@ -475,7 +456,7 @@ CMDCG.do = function() {
 
 	var dblChoseAlert, clicked = false,
 		clickFun = function() {
-			if(clicked){
+			if(clicked || !ragdollMove){
 				return
 			}
 			ragdollMove = false
@@ -752,13 +733,12 @@ CMDCG.do = function() {
 		}
 		//弹簧滑动
 		if(ragdollMove){
-			//控制速度
-			counter += 0.01
+			//控制速度，值越大速度越快
+			counter += 0.012
 			if (counter < 0) return
 			springPx = spring_x + 200 * Math.sin(counter);
 			if(!clicked){
 				spring.pointA.x = springPx
-				// ragdoll.bodies[0].position.x = springPx
 			}
 		}
 	});
@@ -824,7 +804,6 @@ CMDCG.do = function() {
 		// for (var i = 0; i < collisions.length; i++) {
 		// 	console.log('mouseup collisions', collisions[i].bodyA)
 		// }
-		if(!ragdollShow) return
 		clickFun()
 	});
 	render.mouse = mouse;
@@ -837,7 +816,6 @@ CMDCG.do = function() {
 
 	//开始按钮事件
 	$('.cm-dc-start-btn').click(function(){
-		if(!ragdollShow) return
 		clickFun()
 	})
 	//关闭按钮事件
@@ -845,20 +823,17 @@ CMDCG.do = function() {
 		clearSource()
 		eventOff = true
 		World.clear(world)
+		window.scrollTo(255, 0)
 		$('#cm-d-c').remove()
 		$('.cm-dc-class').remove()
 		$('#cm-d-c-style').remove()
 		$('.simpleAlert').remove()
 	})
 
-	//更改鼠标样式
-	$('#cm-d-c').css({cursor:"url('https://www.duba.com/static/v2/images/point.cur'),auto"})
-
-
 	//减少引擎更新时间
 	function enginRun() {
 		window.requestAnimationFrame(enginRun);
-		Engine.update(engine, 1000 / 300);
+		Engine.update(engine, 1000 / 200);
 	}
 	enginRun()
 
